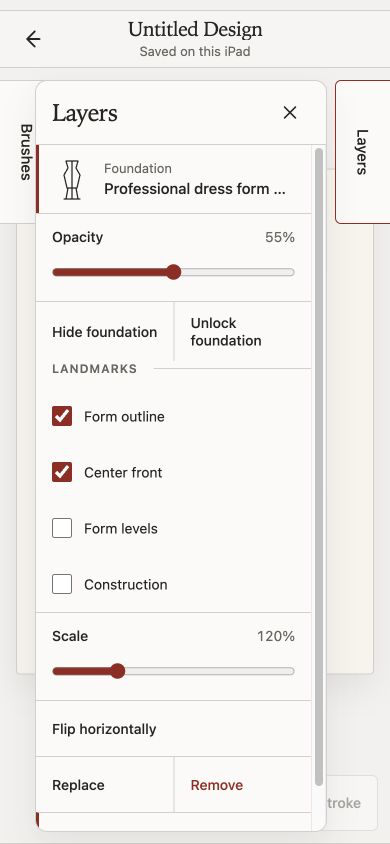
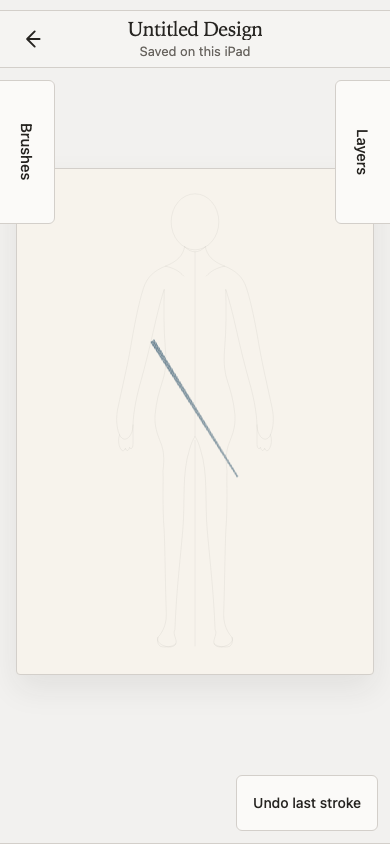
test: prove foundation artwork recovery

diff --git a/src/features/canvas/DrawingSurface.test.tsx b/src/features/canvas/DrawingSurface.test.tsx
@@ -705,6 +705,43 @@ describe("DrawingSurface", () => {
 
     expect(store.getSnapshot().brush.id).toBe("denim-v1");
     expect(view.surface).toBeInTheDocument();
+
+    repository.appendOperation.mockClear();
+    fireEvent(
+      view.surface,
+      pointerEvent("pointerdown", sample(30, 40, 200, 0.45)),
+    );
+    fireEvent(
+      view.surface,
+      pointerEvent("pointermove", sample(90, 120, 216, 0.65)),
+    );
+    fireEvent(
+      view.surface,
+      pointerEvent("pointerup", sample(140, 180, 232, 0.72)),
+    );
+
+    await waitFor(() =>
+      expect(repository.appendOperation).toHaveBeenCalledTimes(1),
+    );
+    expect(repository.appendOperation).toHaveBeenCalledWith(
+      expect.objectContaining({
+        type: "stroke.committed",
+        brush: expect.objectContaining({ id: "denim-v1" }),
+      }),
+    );
+    expect(renderer.commitStroke).toHaveBeenCalledWith(
+      expect.objectContaining({
+        operationId: "stroke-1",
+        texture: expect.objectContaining({ kind: "denim" }),
+      }),
+    );
+    expect(store.getSnapshot().document?.strokes).toEqual([
+      expect.objectContaining({ operationId: "recovered-denim-stroke" }),
+      expect.objectContaining({
+        operationId: "stroke-1",
+        brush: expect.objectContaining({ id: "denim-v1" }),
+      }),
+    ]);
   });
 
   it("forwards fitted and subscribed viewport matrices to the overlay", async () => {

diff --git a/.superpowers/sdd/2026-07-28-traceable-fashion-foundation/task-8-report.md b/.superpowers/sdd/2026-07-28-traceable-fashion-foundation/task-8-report.md
@@ -290,3 +290,202 @@ Scoped Task 8 files:
   require the user.
 - The browser-created test project intentionally remains in local browser
   storage; it contains no user data and is useful for the handoff.
+
+## Fix Round 1/5
+
+Date: 2026-07-29
+
+This round addresses only the two Important proof findings. It adds no product
+behavior or public API.
+
+### Important finding 1
+
+> "The unknown-asset test does not prove drawing remains usable. It selects
+> Denim, checks store state, and verifies that the canvas is mounted, but never
+> sends input or asserts a new stroke reaches persistence/renderer. A broken
+> drawing controller under the unavailable-asset state could pass. Add an
+> automated pointer gesture and assert a new Denim stroke.committed operation
+> and renderer commit. Keep the explicit statement that this is not Apple
+> Pencil acceptance."
+
+Addressed in `src/features/canvas/DrawingSurface.test.tsx`:
+
+1. Recover the fixture containing `retired-foundation@9` and one existing Denim
+   artwork stroke.
+2. Verify the missing-guide message and switch from Layers to Brushes.
+3. Select Denim.
+4. Dispatch synthetic `pen` pointerdown, pointermove, and pointerup through the
+   mounted drawing canvas.
+5. Assert exactly one new durable operation.
+6. Assert that operation is `stroke.committed` with brush `denim-v1`.
+7. Assert one renderer commit whose texture kind is `denim`.
+8. Assert editor state retains the recovered stroke and adds the new Denim
+   stroke.
+
+Focused result:
+
+```text
+$ pnpm exec vitest run src/features/canvas/DrawingSurface.test.tsx \
+  -t "keeps Brushes functional beside artwork when a pinned Foundation is unavailable"
+
+Test Files  1 passed (1)
+Tests       1 passed | 23 skipped (24)
+```
+
+Covering result:
+
+```text
+$ pnpm exec vitest run \
+  src/features/canvas/DrawingSurface.test.tsx \
+  src/app/App.test.tsx \
+  src/platform/persistence/BrowserProjectRepository.integration.test.ts
+
+Test Files  3 passed (3)
+Tests       88 passed (88)
+```
+
+This is automated synthetic controller evidence. It proves that drawing remains
+usable when the pinned asset is unavailable; it is not Apple Pencil acceptance.
+
+### Important finding 2
+
+> "The browser workflow omitted the required fabric-brush stroke. The record
+> jumps from selecting Denim directly to hiding/showing the guide. Both
+> inspected captures show a guide with no visible artwork, so the claimed
+> visual check that the Foundation remains quiet beneath artwork is not
+> demonstrated. Add a browser-driven Denim stroke, verify it after
+> reopen/removal, and capture it visually; this still does not replace the
+> real-device gate."
+
+Addressed with a temporary Playwright workflow against the existing,
+undisturbed Vite process at `http://localhost:5173/`:
+
+1. Launch a fresh isolated Chromium context at 1448×1086.
+2. Create a new design.
+3. Add Neutral figure — Front, set opacity to 55%, and hide Body levels.
+4. Select Denim.
+5. Dispatch a synthetic pen gesture across the center of the visible figure
+   guide.
+6. Verify Undo becomes enabled and local save returns to Saved.
+7. Return to the gallery and reopen the sole recent project.
+8. Verify Undo remains enabled and inspect the real `fabric-sketcher`
+   IndexedDB operations store.
+9. Assert exactly one reopened `stroke.committed` operation whose brush is
+   `denim-v1`.
+10. Capture desktop and mobile views with the Denim stroke visibly above the
+    quiet guide.
+11. Remove the Foundation.
+12. Assert Undo remains enabled, the same single Denim stroke remains in
+    IndexedDB, and the latest durable operation is `foundation.set` with
+    `foundation: null`.
+13. Capture the visible Denim artwork after removal.
+
+Passing browser proof:
+
+```json
+{
+  "synthetic": true,
+  "deviceAcceptance": false,
+  "projectId": "2aa2ac47-aca5-4be6-b01b-40fd169b576a",
+  "strokeOperationId": "53e5db21-2806-4659-b134-a5803fdb9b2a",
+  "brushId": "denim-v1",
+  "reopenedStrokeCount": 1,
+  "retainedStrokeCount": 1,
+  "latestOperation": "foundation.set",
+  "latestFoundation": null,
+  "consoleIssues": []
+}
+```
+
+Screenshot evidence:
+
+- Foundation plus visible Denim stroke, desktop:
+  `/private/tmp/traceable-fashion-foundation-desktop-1448x1086.png`
+  (PNG, 1448×1086).
+- Foundation plus visible Denim stroke, mobile:
+  `docs/testing/traceable-fashion-foundation-ipad.png`
+  (PNG, 390×844; updated committed artifact).
+- Denim stroke visibly retained after Foundation removal:
+  `/private/tmp/traceable-fashion-foundation-after-removal-1448x1086.png`
+  (PNG, 1448×1086).
+
+Visual inspection now directly demonstrates the darker blue Denim mark above
+the quiet 55% muted figure guide. The after-removal capture shows that identical
+mark on the warm paper with Foundation `None`.
+
+The browser emitted headless SwiftShader `GL Driver Message` performance
+diagnostics only during screenshot readback; those known browser-driver notices
+were separated from application console collection. Application warnings,
+errors, and page errors were empty. The temporary proof runner was deleted
+after the passing evidence was captured.
+
+This workflow uses constructed browser pointer events. It validates the real
+browser controller, renderer, IndexedDB persistence, reopen, and removal path,
+but it does not replace Apple Pencil drag, physical Denim input, or two-finger
+pinch acceptance on an iPad.
+
+### Fix Round 1 quality gate
+
+The first gate attempt correctly stopped at formatting for the newly edited
+checklist. The checklist was formatted and the complete gate was rerun from the
+beginning:
+
+```text
+$ pnpm quality
+$ pnpm format:check && pnpm lint && pnpm typecheck && pnpm test && pnpm build
+$ prettier --check .
+Checking formatting...
+All matched files use Prettier code style!
+$ eslint .
+$ tsc -b --pretty false
+$ vitest run
+
+RUN  v4.1.10
+
+Not implemented: HTMLCanvasElement's getContext() method: without installing the canvas npm package
+Not implemented: HTMLCanvasElement's getContext() method: without installing the canvas npm package
+Not implemented: HTMLCanvasElement's getContext() method: without installing the canvas npm package
+
+Test Files  27 passed (27)
+Tests       279 passed (279)
+
+$ tsc -b && vite build
+vite v8.1.5 building client environment for production...
+transforming... ✓ 48 modules transformed.
+rendering chunks...
+computing gzip size...
+dist/registerSW.js                0.13 kB
+dist/manifest.webmanifest         0.43 kB
+dist/index.html                   0.60 kB │ gzip:  0.35 kB
+dist/assets/index-Dv-Ul0NL.css   16.91 kB │ gzip:  3.68 kB
+dist/assets/index-cNeiE_UJ.js   273.23 kB │ gzip: 83.58 kB
+✓ built in 85ms
+
+PWA v1.3.0
+mode      generateSW
+precache  13 entries (329.18 KiB)
+files generated
+  dist/sw.js
+  dist/workbox-2fbc6a65.js
+```
+
+The three jsdom canvas `getContext()` notices remain the previously documented
+non-failing environment noise.
+
+### Fix Round 1 self-review and remaining concern
+
+- The unknown-asset test now fails if the canvas controller stops accepting
+  pen input, if the brush snapshot is not Denim, if persistence does not receive
+  the new operation, or if the renderer does not commit it.
+- The browser proof reads the real IndexedDB operations store after navigation,
+  not transient React state.
+- The screenshots were visually inspected at original resolution; both
+  Foundation captures show visible artwork, and the removal capture shows that
+  artwork retained.
+- No production file changed in this round.
+- `vite.config.ts`, the two existing `fabric-brush-alpha-*` files, and the
+  plan/progress ledger remain untouched.
+- The live Vite process was not stopped or restarted.
+- Remaining concern: genuine Apple Pencil and multi-touch behavior still
+  requires the user on physical iPad hardware. Synthetic evidence is not a
+  substitute.

diff --git a/docs/testing/traceable-fashion-foundation-checklist.md b/docs/testing/traceable-fashion-foundation-checklist.md
@@ -15,7 +15,9 @@ Verified: 2026-07-29
 - [x] An unknown pinned asset remains valid document data. The editor mounts
       the recovered artwork renderer, marks the unavailable guide as missing,
       presents “Foundation unavailable / Your artwork is safe,” and keeps
-      Brushes functional.
+      Brushes functional. A synthetic pen down/move/up after selecting Denim
+      produces one new durable `stroke.committed` operation, one Denim renderer
+      commit, and a second stroke in editor state while the asset is missing.
 - [x] Removing an unavailable or available guide leaves the artwork/canvas
       surface intact.
 
@@ -41,6 +43,9 @@ The process was not stopped or restarted.
       relocking removed all transform chrome.
 - [x] Denim remained selectable and visibly checked while Foundation controls
       were present.
+- [x] A synthetic pen gesture drew one visible Denim stroke over the guide.
+      IndexedDB contained exactly one Denim `stroke.committed` operation after
+      returning to the gallery and reopening.
 - [x] Hide removed all guide `<use>` elements; Show restored two visible
       landmark groups.
 - [x] Replacing the guide with Professional dress form — Front retained the
@@ -49,13 +54,16 @@ The process was not stopped or restarted.
 - [x] Returning to the gallery and reopening recovered the dress form, 55%
       opacity, 120% scale, landmark visibility, lock state, and exact matrix.
 - [x] Removing the guide left the drawing canvas mounted with no error overlay.
+      The reopened Denim stroke remained visible, Undo remained enabled, and
+      IndexedDB still contained the same single Denim stroke after the latest
+      durable `foundation.set` stored `foundation: null`.
 - [x] The live LAN endpoint
       `http://192.168.1.148:5173/` rendered the Fabric Sketcher gallery with no
       console warnings or errors.
-- [ ] Apple Pencil drag, touch pinch-scale, and the final physical Denim stroke
-      require the user on real iPad hardware. Browser automation cannot emit a
-      genuine Apple Pencil or multi-touch contact; synthetic input is not a
-      substitute for this acceptance gate.
+- [ ] Apple Pencil drag, touch pinch-scale, and a physical Denim stroke require
+      the user on real iPad hardware. The automated Denim gesture above is
+      intentionally synthetic; it is not a substitute for this acceptance
+      gate.
 
 ## Visual comparison
 
@@ -68,10 +76,13 @@ Committed mobile capture:
 Desktop capture:
 `/private/tmp/traceable-fashion-foundation-desktop-1448x1086.png`
 
+After-removal capture:
+`/private/tmp/traceable-fashion-foundation-after-removal-1448x1086.png`
+
 | Criterion               | Evidence                                                                                                                                                        |
 | ----------------------- | --------------------------------------------------------------------------------------------------------------------------------------------------------------- |
 | Warm paper / cool field | Paper `rgb(247, 243, 236)`; field `rgb(242, 241, 239)`, matching the restrained approved palette.                                                               |
-| Quiet Foundation        | Guide rendered at 55% opacity in muted linework beneath the artwork canvas layer.                                                                               |
+| Quiet Foundation        | Updated desktop and mobile captures visibly show the muted 55% guide beneath the darker synthetic Denim stroke.                                                 |
 | Shelf family            | Both handles measured 56×144; Layers and corrected Brushes close targets measured 56×56; panels share warm surfaces, fine rules, radius, and restrained shadow. |
 | Overlay behavior        | Desktop paper remained exactly 688.57×973.99 at x=379.71 before and after opening the 292px Layers panel.                                                       |
 | Oxblood selection       | Active Foundation rule measured `rgb(151, 37, 31)`; range fills and checked controls used the same family color.                                                |
@@ -105,6 +116,11 @@ Checkpoint B.
   `expected 40 to be greater than or equal to 56`.
 - Focused close-target GREEN: 1 passed; full DrawingSurface suite 24 passed.
 - Focused recovery/unknown-asset suite: 3 files, 88 tests passed.
+- Fix Round 1 covering suite after the synthetic unknown-asset drawing proof:
+  3 files, 88 tests passed.
+- Synthetic browser proof: one Denim stroke after gallery reopen; the same one
+  remained after Foundation removal; latest operation was `foundation.set`
+  with `foundation: null`; application console issues were empty.
 - Integrated slice:
   `pnpm exec vitest run src/app src/features src/platform/persistence src/state`
   — 12 files, 147 tests passed before the target-size correction.
